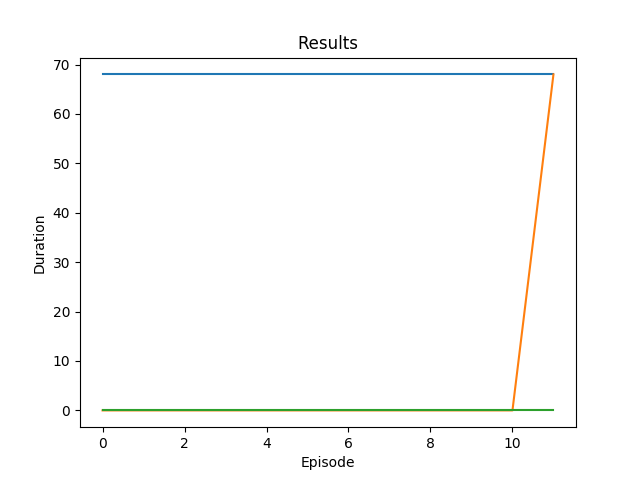
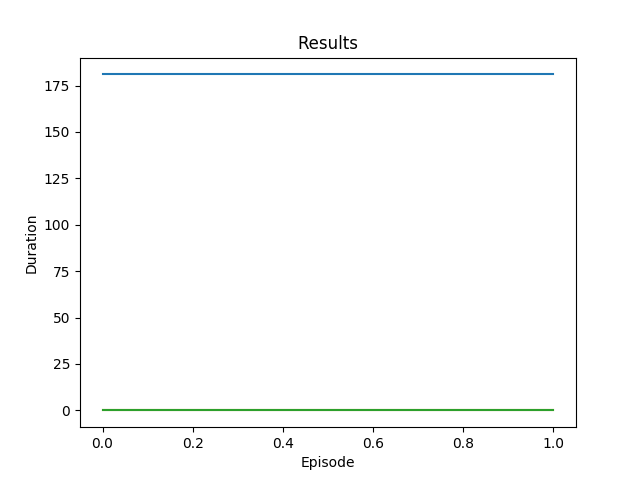
All tests are running on simple map

diff --git a/Testing/RunTests.py b/Testing/RunTests.py
@@ -85,10 +85,10 @@ def evaluate_agent(env, agent, show=True):
         rewards.append(score)
         steps.append(env.steps) # record how many steps it took
 
-        if n % print_n == 1:
+        if n % print_n == 1 or show:
             mean = np.mean(rewards[-20:])
             print(f"Run: {n} --> Score: {score} --> Mean: {mean} --> steps: {steps[-1]}")
-        if show and n%show_n == 1:
+        if (show and n%show_n == 1) or show:
             lib.plot(rewards, figure_n=2)
             plt.figure(2).savefig("Testing_" + agent.name)
             env.render()
@@ -321,19 +321,21 @@ def RunModDQNTraining():
 
 
 # testing algorithms
-def RunRepDQNTest(map_name):
+def RunRepDQNTest(map_name, agent_name):
     env = TestEnv(map_name)
-    agent = TestRepDQN(env.state_space, env.action_space, "DQNtrain2")
+    agent_name = "DQNtrain2"
+    agent = TestRepDQN(env.state_space, env.action_space, agent_name)
 
-    evaluate_agent(env, agent)
+    evaluate_agent(env, agent, True)
+    # evaluate_agent(env, agent, False)
 
-def RunModDQNTest(map_name):
-    env = TestEnv(name30)
-    env.run_path_finder()
-    # env = gym.make('CartPole-v1')
-    agent = TestModDQN(env.state_space, env.action_space, "TestDQN-CartPole")
+def RunModDQNTest(map_name, agent_name):
+    env = TestEnv(map_name)
+    agent_name = "DQNtrainMod3"
+    agent = TestModDQN(env.state_space, env.action_space, agent_name)
 
-    evaluate_agent(env, agent)
+    evaluate_agent(env, agent, True)
+    # evaluate_agent(env, agent, False)
 
 def RunCorridorTest(map_name):
     env = TestEnv(map_name)
@@ -353,13 +355,16 @@ def RunPurePursuitTest(map_name):
 if __name__ == "__main__":
     # DebugModAgent()
 
-    # map_name = test00
-    map_name = test10
+    map_name = test00
+    # map_name = test10
 
-    # RunRepDQNTraining()
-    # RunModDQNTraining()
+    rep_name = "RepTestDqnR1"
+    mod_name = "ModTestDqnR1"
 
-    RunCorridorTest(map_name)
+    # RunRepDQNTraining(rep_name)
+    # RunModDQNTraining(mod_name)
+
+    # RunCorridorTest(map_name)
     # RunPurePursuitTest(map_name)
-    # RunRepDQNTest(map_name)
-    # RunModDQNTest(map_name)
+    # RunRepDQNTest(map_name, rep_name)
+    RunModDQNTest(map_name, mod_name)

diff --git a/Testing/ModificationDQN.py b/Testing/ModificationDQN.py
@@ -225,18 +225,59 @@ class TestModDQN:
     def __init__(self, obs_space, act_space, name="best_avg"):
         self.model = Qnet(obs_space, act_space)
         self.name = name
+        self.action_space = act_space
 
     def load(self, directory="./dqn_saves"):
         filename = self.name
-        self.model.load_state_dict(torch.load('%s/%s_model.pth' % (directory, filename)))
+        # self.model.load_state_dict(torch.load('%s/%s_model.pth' % (directory, filename)))
         self.model = torch.load('%s/%s_model.pth' % (directory, filename))
+        self.value_model = torch.load('%s/%s_Vmodel.pth' % (directory, filename))
         print(f"Loaded Agent: {self.name}")
 
+    def mod_act(self, obs):
+        out = self.model.forward(obs)
+        return out.argmax().item()
+
     def act(self, obs):
+        pp_action = self.get_pursuit_action(obs)
         obs_t = torch.from_numpy(obs).float()
-        out = self.model.forward(obs_t)
-        a = out.argmax().item()
-        return a
+        value_obs = np.append(obs, pp_action)
+        value_obs_t = torch.from_numpy(value_obs).float()
+        safe_value = self.value_model.forward(value_obs_t)
+        # 0= crash, 1 = no crash
+        threshold = 0.5
+        if safe_value.detach().item() > threshold:
+            action = pp_action
+        else:
+            mod_action = self.mod_act(obs_t) # [0, 1]
+            action_modifier = 2 if mod_action == 1 else -2
+            action = pp_action + action_modifier # swerves left or right
+            action = np.clip(action, 0, self.action_space-1)
+
+        return action
+
+    def get_pursuit_action(self, obs):
+        if abs(obs[0]) > 0.01:
+            grad = obs[1] / obs[0] # y/x
+        else:
+            grad = 10000
+        angle = np.arctan(grad)
+        if angle > 0:
+            angle = np.pi - angle
+        else:
+            angle = - angle
+        dth = np.pi / (self.action_space - 1)
+        action = int(angle / dth)
+
+        return action
+
+    def get_pp_acts(self, obses):
+        arr = np.zeros((len(obses)))
+        for i, obs in enumerate(obses):
+            arr[i] = self.get_pursuit_action(obs)
+
+        return arr
+
 
 
 

diff --git a/Testing/TestEnv.py b/Testing/TestEnv.py
@@ -134,12 +134,12 @@ class TestMap:
         # self.end = [680, 100]
 
         # map 00
-        # self.start = [100, 900]
-        # self.end = [900, 100]
+        self.start = [100, 900]
+        self.end = [900, 100]
 
         # map 10
-        self.start = [530, 50]
-        self.end = [900, 200]
+        # self.start = [530, 50]
+        # self.end = [900, 200]
 
         # map 10
         # self.start = []
